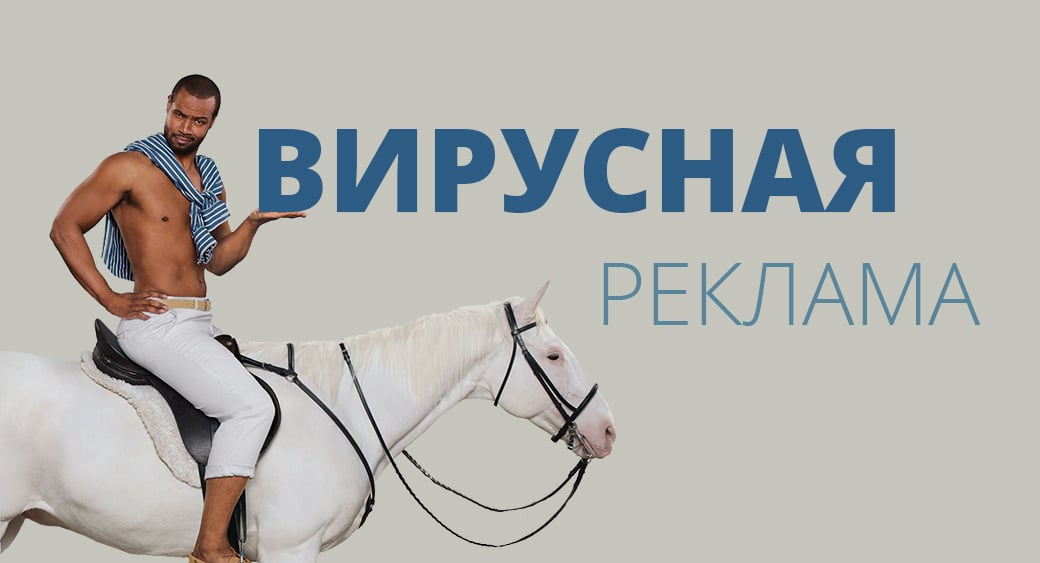
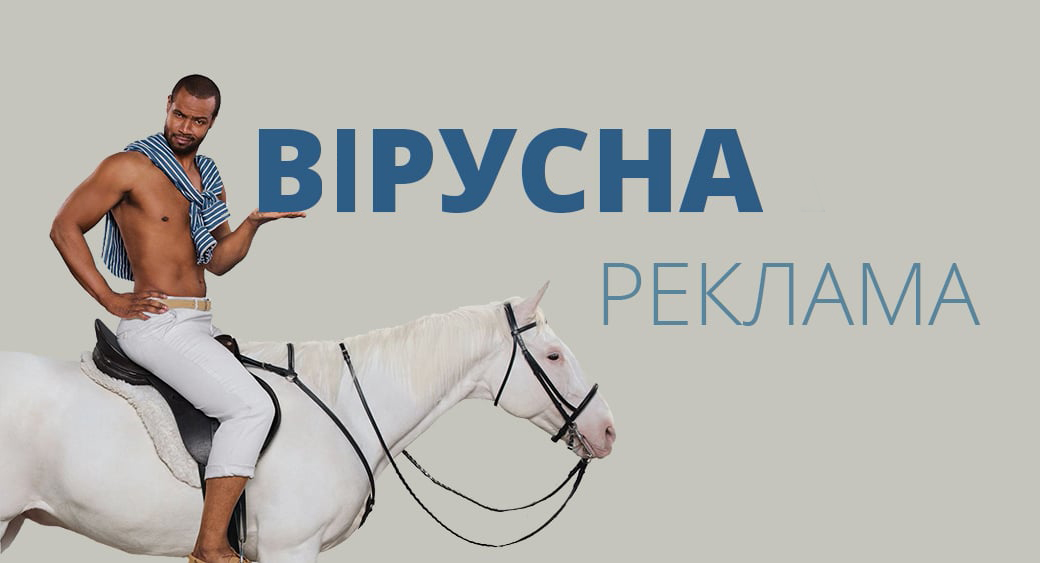
change the language

Changed region(s): [[0.3385, 0.2114, 0.8615, 0.3925]]

diff --git a/index.html b/index.html
@@ -11,7 +11,7 @@
     <header class="header">
         <div class="header__search">
             <form action="#">
-                <input type="text" placeholder="Поиск">
+                <input type="text" placeholder="Пошук">
             </form>
         </div>
         <div class="header__logo">
@@ -22,60 +22,60 @@
         <div class="promo__menu">
             <nav class="promo__menu-list">
                 <ul>
-                    <li><a class="promo__menu-item promo__menu-item_active" href="#">Фильмы</a></li>
-                    <li><a class="promo__menu-item" href="#">Сериалы</a></li>
-                    <li><a class="promo__menu-item" href="#">Мультфильмы</a></li>
-                    <li><a class="promo__menu-item" href="#">Клипы</a></li>
-                    <li><a class="promo__menu-item" href="#">Трейлеры</a></li>
+                    <li><a class="promo__menu-item promo__menu-item_active" href="#">Фільми</a></li>
+                    <li><a class="promo__menu-item" href="#">Серіали</a></li>
+                    <li><a class="promo__menu-item" href="#">Мультфільми</a></li>
+                    <li><a class="promo__menu-item" href="#">Кліпи</a></li>
+                    <li><a class="promo__menu-item" href="#">Трейлери</a></li>
                 </ul>
             </nav>
         </div>
         <div class="promo__content">
             <div class="promo__bg">
-                <div class="promo__genre">КОМЕДИЯ</div>
-                <div class="promo__title">МАРСИАНИН</div>
-                <div class="promo__descr">ИСТОРИЯ ЧЕЛОВЕКА, ВЫЖИВШЕГО НА ЧУЖОЙ ПЛАНЕТЕ В ОДИНОЧКУ</div>
+                <div class="promo__genre">КОМЕДІЯ</div>
+                <div class="promo__title">МАРСІАНИН</div>
+                <div class="promo__descr">ІСТОРІЯ ЛЮДИНИ, ЩО ВИЖИЛА НА ЧУЖІЙ ПЛАНЕТІ САМОТУЖКИ</div>
                 <div class="promo__ratings">
                     <span>IMDb: 8.0</span>
-                    <span>Кинопоиск: 7.7</span>
+                    <span>Кінопошук: 7.7</span>
                 </div>
             </div>
             <div class="promo__interactive">
                 <div>
-                    <div class="promo__interactive-title">ПРОСМОТРЕННЫЕ ФИЛЬМЫ</div>
+                    <div class="promo__interactive-title">ПЕРЕГЛЯНУТІ ФІЛЬМИ</div>
                     <ul class="promo__interactive-list">
                         <li class="promo__interactive-item">ЛОГАН
                             <div class="delete"></div>
                         </li>
-                        <li class="promo__interactive-item">ЛИГА СПРАВЕДЛИВОСТИ
+                        <li class="promo__interactive-item">ЛІГА СПРАВЕДЛИВОСТІ
                             <div class="delete"></div>
                         </li>
-                        <li class="promo__interactive-item">ЛА-ЛА ЛЭНД
+                        <li class="promo__interactive-item">ЛА-ЛА ЛЕНД
                             <div class="delete"></div>
                         </li>
-                        <li class="promo__interactive-item">ОДЕРЖИМОСТЬ
+                        <li class="promo__interactive-item">ОДЕРЖИМІСТЬ
                             <div class="delete"></div>
                         </li>
-                        <li class="promo__interactive-item">СКОТТ ПИЛИГРИМ ПРОТИВ...
+                        <li class="promo__interactive-item">СКОТТ ПІЛІГРИМ ПРОТИ...
                             <div class="delete"></div>
                         </li>
                     </ul>
                 </div>
                 <div>
                     <form class="add">
-                        <div class="promo__interactive-title">ДОБАВИТЬ НОВЫЙ ФИЛЬМ</div>
-                        <span>Введите название фильма</span>
-                        <input class="adding__input" type="text" placeholder="Что уже посмотрено...?">
-                        <span>Сделать его любимым?</span>
+                        <div class="promo__interactive-title">ДОДАТИ НОВИЙ ФІЛЬМ</div>
+                        <span>Введіть назву фільму</span>
+                        <input class="adding__input" type="text" placeholder="Що вже переглянуто...?">
+                        <span>Зробити його любимим?</span>
                         <input type="checkbox">
-                        <span class="yes">Да!</span>
-                        <button>Подтвердить</button>
+                        <span class="yes">Так!</span>
+                        <button>Підтвердити</button>
                     </form>
                 </div>
             </div>
         </div>
         <div class="promo__adv">
-            <div class="promo__adv-title">Реклама от спонсоров</div>
+            <div class="promo__adv-title">Реклама від спонсорів</div>
             <img src="img/content_1.jpg" alt="some picture">
             <img src="img/content_2.jpg" alt="some picture">
             <img src="img/content_3.png" alt="some picture">
